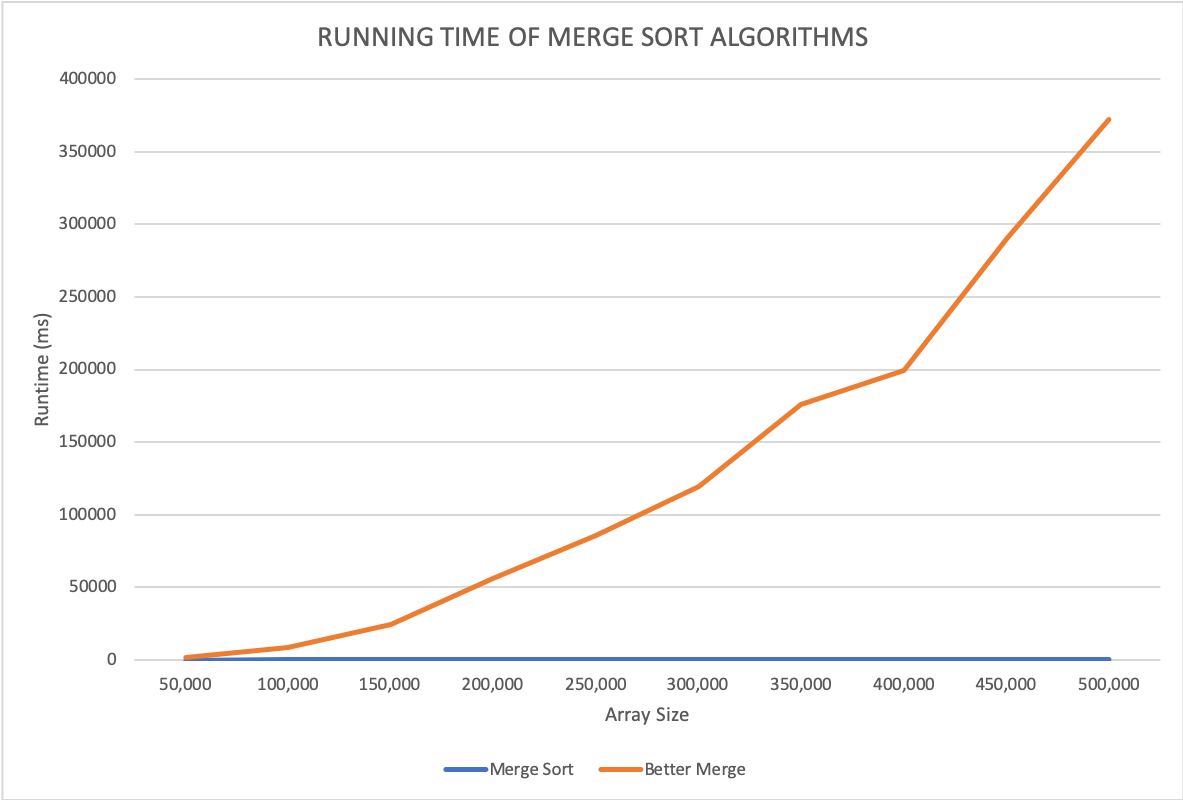
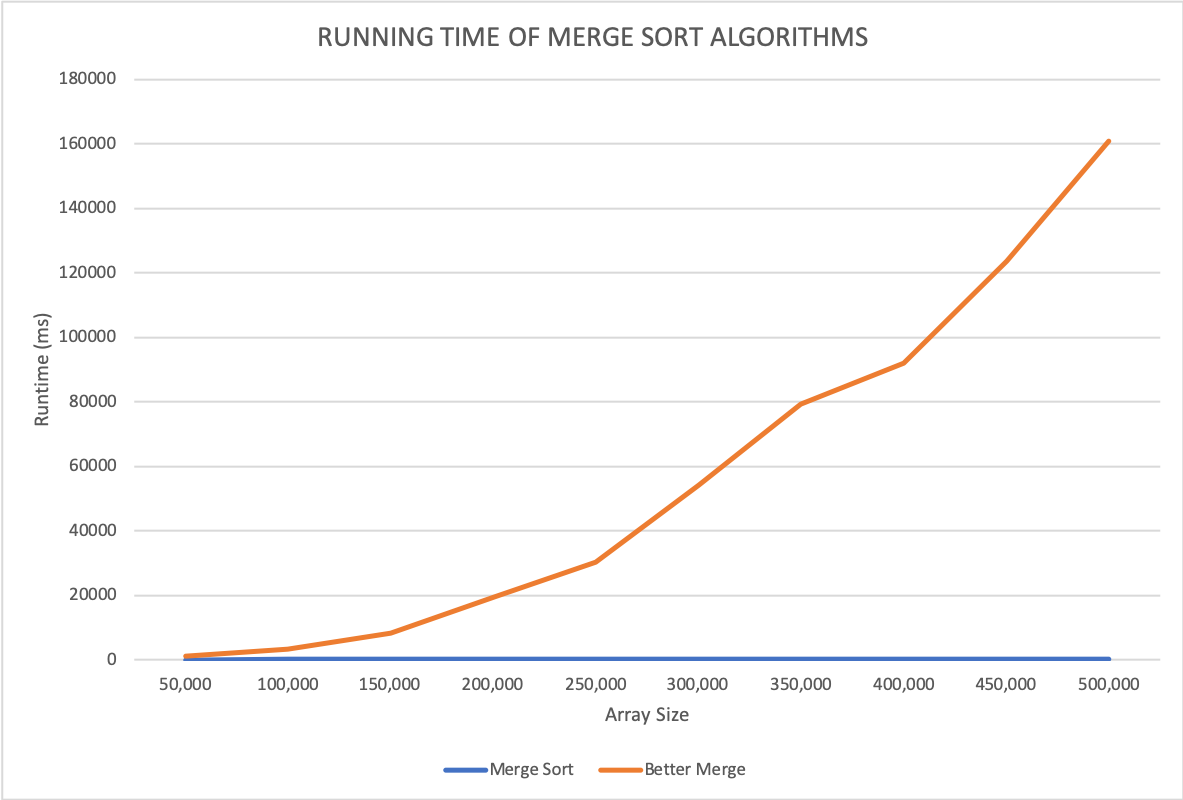
Add files via upload

diff --git a/BetterMer.java b/BetterMer.java
@@ -1,3 +1,4 @@
+import java.lang.reflect.Array;
 import java.util.ArrayList;
 import java.util.Arrays;
 import java.util.Random;
@@ -31,32 +32,83 @@ public class BetterMer {
 
             }
         }
-        //intiate new empty array and add first sorted portion to it
-        double[] tempArr = new double[inputArr.length];
-        for (int j = 0; j <= holder.get(1).intValue(); j++) {
-            tempArr[j] = inputArr[j];
-        }
-        //get the index of the last element logged in tempArr
+        //get the index of the end of the first sorted section
         index = holder.get(1).intValue();
+        //get index of the start of the last sorted section
+        int backIndex = holder.get(holder.size()-2).intValue();
         //remove the indices of the first sorted portion
         holder.remove(0);
         holder.remove(0);
-        while(holder.size()>1){
-            //create first array from the range of (non-zero) elements in tempArr
-            double[] arr1 = Arrays.copyOfRange(tempArr,0,index+1);
-            //create second array from the indices logged in holder
-            double[] arr2 = Arrays.copyOfRange(inputArr,holder.get(0).intValue(),holder.get(1).intValue()+1);
-            holder.remove(0);
-            holder.remove(0);
-            //change index variable to keep up with new elements to be added to tempArr
-            index = (arr1.length+arr2.length)-1;
-            merge(tempArr, arr1, arr2);
+        holder.remove(holder.size()-1);
+        holder.remove(holder.size()-1);
+        int accum = holder.size();
+        while(accum >= 0){
+            if(holder.size() >= 4) {
+                //create first array from the range of (non-zero) elements in tempArr
+                double[] arr1 = Arrays.copyOfRange(inputArr, 0, index + 1);
+                //create second array from the indices logged in holder
+                double[] arr2 = Arrays.copyOfRange(inputArr, holder.get(0).intValue(), holder.get(1).intValue() + 1);
+                holder.remove(0);
+                holder.remove(0);
+                //create arrays coming from the back (using same methods as above)
+                double[] arr3 = Arrays.copyOfRange(inputArr, backIndex, inputArr.length);
+                double[] arr4 = Arrays.copyOfRange(inputArr, holder.get(holder.size()-2).intValue(), holder.get(holder.size() - 1).intValue()+1);
+                holder.remove(holder.size() - 1);
+                holder.remove(holder.size() - 1);
+                //change index variable to keep up with new elements to be added to tempArr
+                index = (arr1.length + arr2.length) - 1;
+                backIndex = (inputArr.length-(arr3.length + arr4.length));
+                //run both merges
+                merge(inputArr, arr1, arr2);
+                backMerge(inputArr, arr3, arr4);
+            }
+            //for last sorted set indicated in the arraylist
+            else if (holder.size() == 2){
+                double[] arr1 = Arrays.copyOfRange(inputArr, 0, index + 1);
+                //create second array from the indices logged in holder
+                double[] arr2 = Arrays.copyOfRange(inputArr, holder.get(0).intValue(), holder.get(1).intValue() + 1);
+                holder.remove(0);
+                holder.remove(0);
+                index = (arr1.length + arr2.length) - 1;
+                merge(inputArr, arr1, arr2);
+            }
+            //once the arraylist is empty, merge the two arrays (front and back) together
+            else{
+                index++;
+                double[] arr1 = Arrays.copyOfRange(inputArr, 0, index);
+                double[] arr3 = Arrays.copyOfRange(inputArr, index, inputArr.length);
+                merge(inputArr, arr1, arr3);
+                accum= -1;
+            }
         }
-        return tempArr;
+        return inputArr;
     }
 
     public void merge ( double[] arr, double[] left, double[] right){
         int leftIndex = 0, rightIndex = 0, arrIndex = 0;
+        while (leftIndex < left.length && rightIndex < right.length) {
+            //if element in left array is less than element in right array, add to arr
+            if (left[leftIndex] < right[rightIndex]) {
+                arr[arrIndex++] = left[leftIndex++];
+            }
+            //otherwise add right element to arr
+            else {
+                arr[arrIndex++] = right[rightIndex++];
+            }
+        }
+        //if right is empty, add rest of left to arr
+        while (leftIndex < left.length) {
+            arr[arrIndex++] = left[leftIndex++];
+        }
+        //" ^^  " for right arr
+        while (rightIndex < right.length) {
+            arr[arrIndex++] = right[rightIndex++];
+        }
+
+    }
+    //same as above merge, just starts in the last section of the array
+    public void backMerge ( double[] arr, double[] left, double[] right){
+        int leftIndex = 0, rightIndex = 0, arrIndex = arr.length-(left.length+right.length);
         while (leftIndex < left.length && rightIndex < right.length) {
             //if element in left array is less than element in right array, add to arr
             if (left[leftIndex] < right[rightIndex]) {
@@ -93,6 +145,7 @@ public class BetterMer {
         Random rand = new Random();
         BetterMer newMerge = new BetterMer();
         merSort merge = new merSort();
+        insSort insert = new insSort();
 
         //generate array
         double[] testArr = new double[500000];
@@ -102,6 +155,7 @@ public class BetterMer {
 
         double[] testArr1 = Arrays.copyOf(testArr, testArr.length);
         double[] testArr2 = Arrays.copyOf(testArr, testArr.length);
+        double[] testArr3 = Arrays.copyOf(testArr, testArr.length);
 
         long start = System.currentTimeMillis();
         merge.sort(testArr1);
@@ -116,6 +170,12 @@ public class BetterMer {
 
         if(newMerge.isSorted(testArr2)){
             System.out.println("New merge: "+(end-start));
+            start = System.currentTimeMillis();
+            testArr3 = insert.sort(testArr3);
+            end = System.currentTimeMillis();
+        }
+        if(newMerge.isSorted(testArr3)) {
+            System.out.println("insertion sort: " + (end - start));
         }
 
     }
